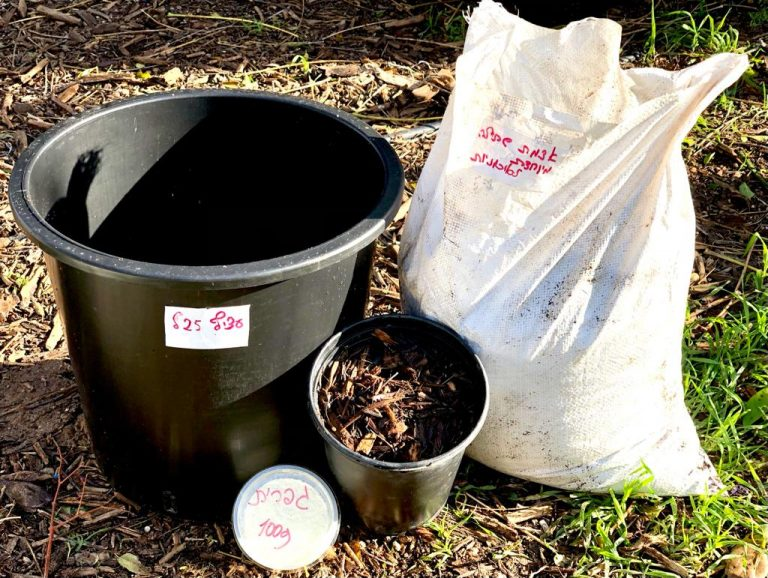
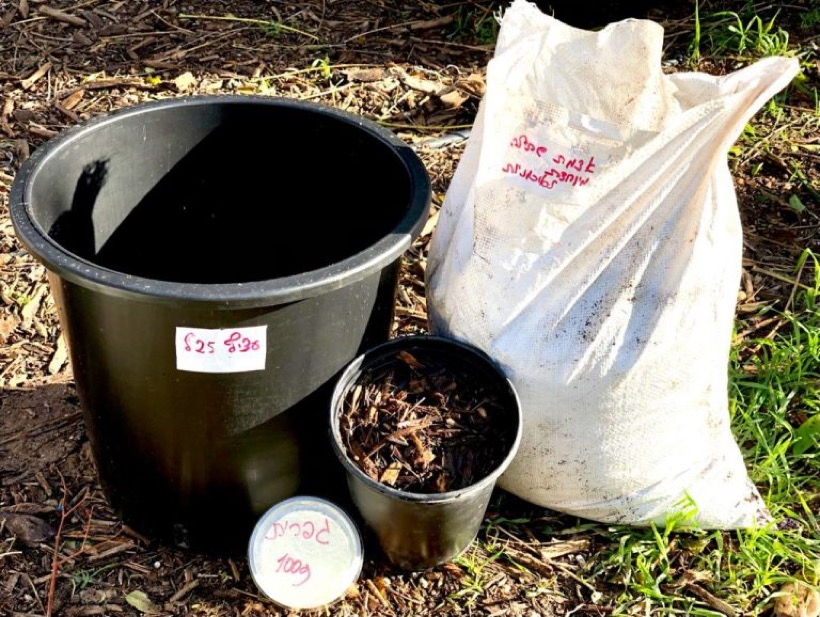
perf(P009-WP004): web-optimize studio images — WebP + downscale (~87% lighter)
team_00: studio materials must be web-optimized; page must be very fast.
- Downscaled card photos to 820px; generated WebP for all photos + washes
- front-page.php: 7 <img> → <picture> (WebP source + JPEG fallback)
- t7.css washes: image-set() WebP-first + JPEG fallback
- WebP-capable browsers load ~1.0MB vs ~7.7MB. v0.7.1.

diff --git a/nimrod.bio/wp-content/themes/nimrod-bio-2026/assets/css/t7.css b/nimrod.bio/wp-content/themes/nimrod-bio-2026/assets/css/t7.css
@@ -1513,11 +1513,11 @@ body[data-unless="scattered"]  .unless-block.scattered { display: block; }
   opacity: .11;
   background-image:
     image-set(
-      url(../img/washes/wash-bridge-soil-know-lg.jpg) 1x,
-      url(../img/washes/wash-bridge-soil-know-xl.jpg) 2x),
+      url(../img/washes/wash-bridge-soil-know-lg.webp) type("image/webp"),
+      url(../img/washes/wash-bridge-soil-know-lg.jpg)  type("image/jpeg")),
     image-set(
-      url(../img/washes/wash-bridge-know-code-lg.jpg) 1x,
-      url(../img/washes/wash-bridge-know-code-xl.jpg) 2x);
+      url(../img/washes/wash-bridge-know-code-lg.webp) type("image/webp"),
+      url(../img/washes/wash-bridge-know-code-lg.jpg)  type("image/jpeg"));
   background-image: /* fallback for browsers without image-set() */
     url(../img/washes/wash-bridge-soil-know-lg.jpg),
     url(../img/washes/wash-bridge-know-code-lg.jpg);
@@ -1527,6 +1527,13 @@ body[data-unless="scattered"]  .unless-block.scattered { display: block; }
 @media (max-width: 640px) {
   .t7-bridges.bridges-band::before {
     background-image:
+      image-set(
+        url(../img/washes/wash-bridge-soil-know-sm.webp) type("image/webp"),
+        url(../img/washes/wash-bridge-soil-know-sm.jpg)  type("image/jpeg")),
+      image-set(
+        url(../img/washes/wash-bridge-know-code-sm.webp) type("image/webp"),
+        url(../img/washes/wash-bridge-know-code-sm.jpg)  type("image/jpeg"));
+    background-image: /* fallback for browsers without image-set() */
       url(../img/washes/wash-bridge-soil-know-sm.jpg),
       url(../img/washes/wash-bridge-know-code-sm.jpg);
   }
@@ -1540,12 +1547,18 @@ body[data-unless="scattered"]  .unless-block.scattered { display: block; }
   opacity: .08;
   background-image:
     image-set(
-      url(../img/washes/wash-soil-lg.jpg) 1x,
-      url(../img/washes/wash-soil-xl.jpg) 2x);
+      url(../img/washes/wash-soil-lg.webp) type("image/webp"),
+      url(../img/washes/wash-soil-lg.jpg)  type("image/jpeg"));
   background-image: url(../img/washes/wash-soil-lg.jpg); /* fallback */
 }
 @media (max-width: 640px) {
-  .t7-worlds::before { background-image: url(../img/washes/wash-soil-sm.jpg); }
+  .t7-worlds::before {
+    background-image:
+      image-set(
+        url(../img/washes/wash-soil-sm.webp) type("image/webp"),
+        url(../img/washes/wash-soil-sm.jpg)  type("image/jpeg"));
+    background-image: url(../img/washes/wash-soil-sm.jpg); /* fallback */
+  }
 }
 
 /* ── SYSTEMS — subtle know wash; kept low (~0.08) so it never muddies
@@ -1554,12 +1567,18 @@ body[data-unless="scattered"]  .unless-block.scattered { display: block; }
   opacity: .08;
   background-image:
     image-set(
-      url(../img/washes/wash-know-lg.jpg) 1x,
-      url(../img/washes/wash-know-xl.jpg) 2x);
+      url(../img/washes/wash-know-lg.webp) type("image/webp"),
+      url(../img/washes/wash-know-lg.jpg)  type("image/jpeg"));
   background-image: url(../img/washes/wash-know-lg.jpg); /* fallback */
 }
 @media (max-width: 640px) {
-  .t7-systems::before { background-image: url(../img/washes/wash-know-sm.jpg); }
+  .t7-systems::before {
+    background-image:
+      image-set(
+        url(../img/washes/wash-know-sm.webp) type("image/webp"),
+        url(../img/washes/wash-know-sm.jpg)  type("image/jpeg"));
+    background-image: url(../img/washes/wash-know-sm.jpg); /* fallback */
+  }
 }
 
 /* ===== MOBILE — P009-WP002 (team_35 spec §8) ===== */

diff --git a/nimrod.bio/wp-content/themes/nimrod-bio-2026/front-page.php b/nimrod.bio/wp-content/themes/nimrod-bio-2026/front-page.php
@@ -19,7 +19,10 @@ if ( ! defined( 'NB_ICON_SPRITE_DONE' ) ) {
 ?>
 <section class="hero-poster">
 	<div class="hp-bg">
-		<img src="<?php echo esc_url( NB_THEME_URI . '/assets/img/hero-poster.jpeg' ); ?>" alt="" fetchpriority="high" decoding="async">
+		<picture>
+			<source type="image/webp" srcset="<?php echo esc_url( NB_THEME_URI . '/assets/img/hero-poster.webp' ); ?>">
+			<img src="<?php echo esc_url( NB_THEME_URI . '/assets/img/hero-poster.jpeg' ); ?>" alt="" fetchpriority="high" decoding="async">
+		</picture>
 	</div>
 	<div class="hp-scrim" aria-hidden="true"></div>
 	<div class="hp-scrim hp-scrim-bottom" aria-hidden="true"></div>
@@ -116,7 +119,10 @@ $nb_worlds = array(
 			<?php foreach ( $nb_worlds as $w => $wd ) : ?>
 				<a href="<?php echo esc_url( home_url( "/world/$w/" ) ); ?>" class="world-card <?php echo esc_attr( $w ); ?>">
 					<div class="wcard-media">
-						<img src="<?php echo esc_url( NB_THEME_URI . '/assets/img/' . $wd['img'] ); ?>" alt="" loading="lazy" decoding="async">
+						<picture>
+							<source type="image/webp" srcset="<?php echo esc_url( NB_THEME_URI . '/assets/img/' . preg_replace( '/\.(jpe?g)$/i', '.webp', $wd['img'] ) ); ?>">
+							<img src="<?php echo esc_url( NB_THEME_URI . '/assets/img/' . $wd['img'] ); ?>" alt="" loading="lazy" decoding="async">
+						</picture>
 						<span class="nb-emblem <?php echo esc_attr( $w ); ?>">
 							<img src="<?php echo esc_url( NB_THEME_URI . '/assets/img/' . $wd['basket'] ); ?>" alt="" loading="lazy" decoding="async">
 							<svg class="em-ic ip" aria-hidden="true"><use href="#<?php echo esc_attr( $wd['glyph'] ); ?>"/></svg>
@@ -154,7 +160,10 @@ $nb_worlds = array(
 			<a class="sys-card code" href="<?php echo esc_url( 'https://sfa.nimrod.bio/' ); ?>" target="_blank" rel="noopener">
 				<span class="spine" aria-hidden="true"></span>
 				<div class="media img-ph clean sys-shot">
-					<img src="<?php echo esc_url( NB_THEME_URI . '/assets/img/cand-e.jpeg' ); ?>" alt="" loading="lazy" decoding="async">
+					<picture>
+						<source type="image/webp" srcset="<?php echo esc_url( NB_THEME_URI . '/assets/img/cand-e.webp' ); ?>">
+						<img src="<?php echo esc_url( NB_THEME_URI . '/assets/img/cand-e.jpeg' ); ?>" alt="" loading="lazy" decoding="async">
+					</picture>
 					<span class="shot-tag">SFA · ממשק · screenshot pending</span>
 				</div>
 				<div class="body">
@@ -202,7 +211,10 @@ $nb_service_imgs = array( 'greenhouse-1.jpg', 'farm-b.jpg', 'greenhouse-2.jpg', 
 			<?php foreach ( $nb_services as $i => $svc ) : ?>
 				<a class="product-card" href="<?php echo esc_url( home_url( '/world/' . $svc[4] . '/' ) ); ?>">
 					<div class="pimg img-ph clean">
-						<img src="<?php echo esc_url( NB_THEME_URI . '/assets/img/' . $nb_service_imgs[ $i ] ); ?>" alt="" loading="lazy" decoding="async">
+						<picture>
+							<source type="image/webp" srcset="<?php echo esc_url( NB_THEME_URI . '/assets/img/' . preg_replace( '/\.(jpe?g)$/i', '.webp', $nb_service_imgs[ $i ] ) ); ?>">
+							<img src="<?php echo esc_url( NB_THEME_URI . '/assets/img/' . $nb_service_imgs[ $i ] ); ?>" alt="" loading="lazy" decoding="async">
+						</picture>
 					</div>
 					<div class="pbody">
 						<span class="svc-ic"><svg class="ip" aria-hidden="true"><use href="#<?php echo esc_attr( $svc[0] ); ?>"/></svg></span>
@@ -271,7 +283,10 @@ $nb_bridges = array(
 				<a class="bridge-card" href="#" style="--bridge-a:var(--w-<?php echo esc_attr( $br['a'] ); ?>);--bridge-b:var(--w-<?php echo esc_attr( $br['b'] ); ?>)">
 					<span class="spine" aria-hidden="true"></span>
 					<div class="media img-ph clean">
-						<img src="<?php echo esc_url( NB_THEME_URI . '/assets/img/' . $br['img'] ); ?>" alt="" loading="lazy" decoding="async">
+						<picture>
+							<source type="image/webp" srcset="<?php echo esc_url( NB_THEME_URI . '/assets/img/' . preg_replace( '/\.(jpe?g)$/i', '.webp', $br['img'] ) ); ?>">
+							<img src="<?php echo esc_url( NB_THEME_URI . '/assets/img/' . $br['img'] ); ?>" alt="" loading="lazy" decoding="async">
+						</picture>
 						<span class="seal" style="color:var(--<?php echo esc_attr( $br['seal'] ); ?>)" aria-hidden="true">
 							<?php require NB_THEME_DIR . '/assets/icons/' . $br['svg']; ?>
 						</span>
@@ -366,7 +381,10 @@ $nb_use_cpt = $nb_projects->found_posts >= 3;
 					?>
 					<a class="proj-card" href="<?php echo esc_url( home_url( '/projects/' ) ); ?>">
 						<div class="img-ph clean ph" style="aspect-ratio:16 / 10;">
-							<img src="<?php echo esc_url( NB_THEME_URI . '/assets/img/' . $p[0] ); ?>" alt="" loading="lazy" decoding="async">
+							<picture>
+								<source type="image/webp" srcset="<?php echo esc_url( NB_THEME_URI . '/assets/img/' . preg_replace( '/\.(jpe?g)$/i', '.webp', $p[0] ) ); ?>">
+								<img src="<?php echo esc_url( NB_THEME_URI . '/assets/img/' . $p[0] ); ?>" alt="" loading="lazy" decoding="async">
+							</picture>
 						</div>
 						<div class="body">
 							<div class="scope-row">
@@ -396,7 +414,10 @@ $nb_use_cpt = $nb_projects->found_posts >= 3;
 	<div class="mf-bg" aria-hidden="true"><img src="<?php echo esc_url( NB_THEME_URI . '/assets/img/basket-paper.png' ); ?>" alt="" loading="lazy" decoding="async"></div>
 	<div class="t7-wrap mf-grid">
 		<div class="mf-media">
-			<img src="<?php echo esc_url( NB_THEME_URI . '/assets/img/why-morning.jpg' ); ?>" alt="נימרוד בחממה" loading="lazy" decoding="async">
+			<picture>
+				<source type="image/webp" srcset="<?php echo esc_url( NB_THEME_URI . '/assets/img/why-morning.webp' ); ?>">
+				<img src="<?php echo esc_url( NB_THEME_URI . '/assets/img/why-morning.jpg' ); ?>" alt="נימרוד בחממה" loading="lazy" decoding="async">
+			</picture>
 			<span class="mf-emblem"><img src="<?php echo esc_url( NB_THEME_URI . '/assets/img/basket-paper.png' ); ?>" alt="" loading="lazy" decoding="async"></span>
 		</div>
 		<div class="mf-text">

diff --git a/nimrod.bio/wp-content/themes/nimrod-bio-2026/functions.php b/nimrod.bio/wp-content/themes/nimrod-bio-2026/functions.php
@@ -5,7 +5,7 @@
 defined( 'ABSPATH' ) || exit;
 
 // Constants
-define( 'NB_THEME_VERSION', '0.7.0' );
+define( 'NB_THEME_VERSION', '0.7.1' );
 define( 'NB_THEME_DIR', get_template_directory() );
 define( 'NB_THEME_URI', get_template_directory_uri() );
 
